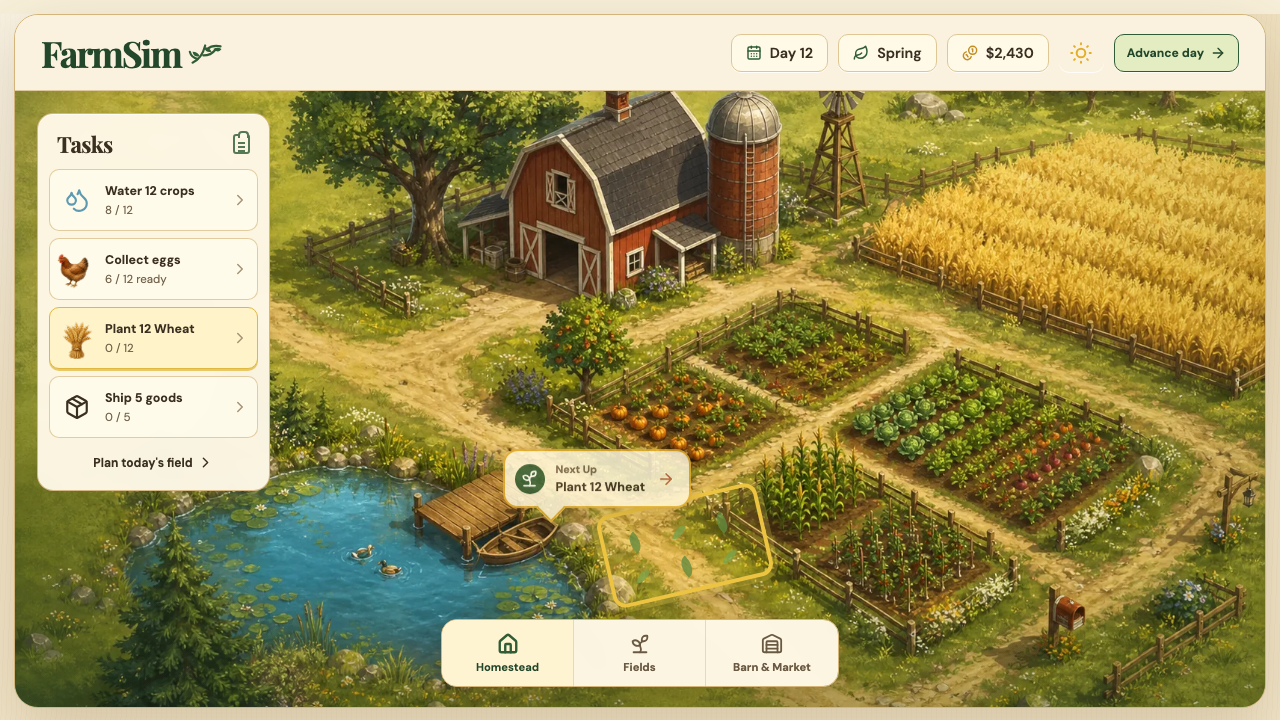
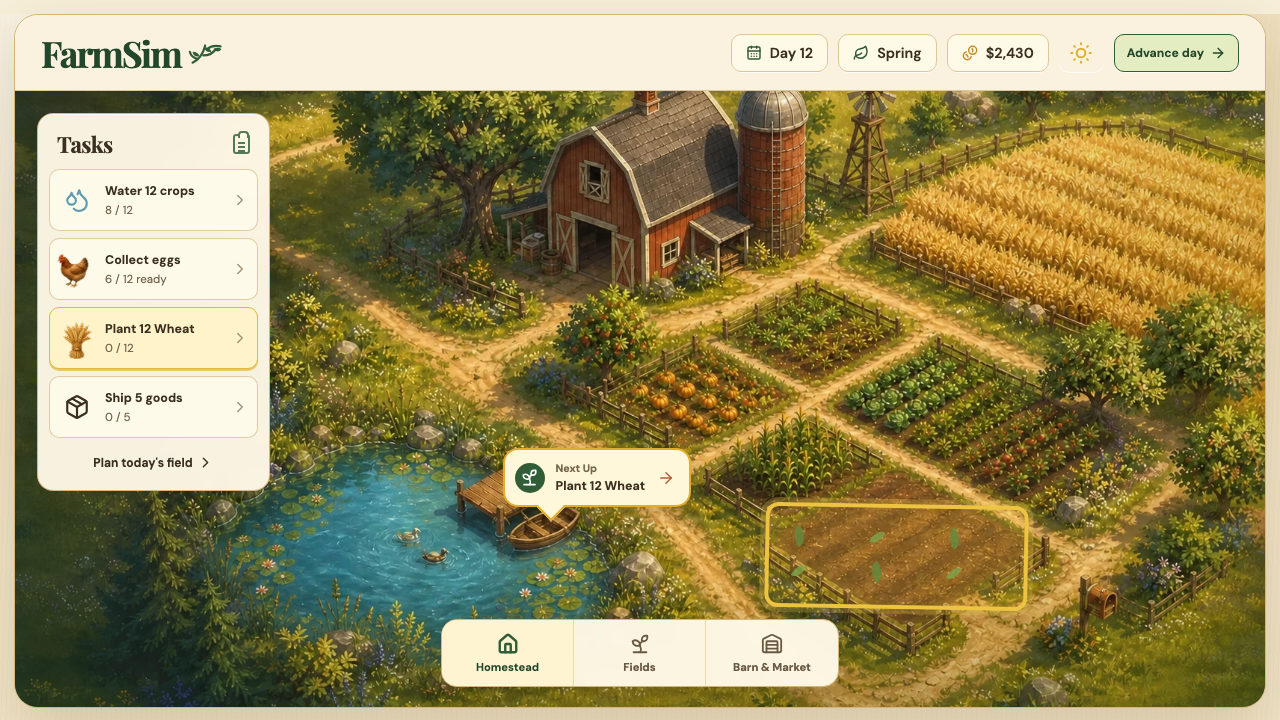
Redesign FarmSim boards and crop assets

diff --git a/web/src/styles.css b/web/src/styles.css
@@ -59,7 +59,7 @@ p { color: var(--ink-soft); font-size: .8rem; line-height: 1.45; }
 /* Overview */
 .sr-only { position: absolute; width: 1px; height: 1px; padding: 0; margin: -1px; overflow: hidden; clip: rect(0, 0, 0, 0); white-space: nowrap; border: 0; }
 .safe-area-pr { padding-right: env(safe-area-inset-right, 0px); }
-.farm-scene { position: relative; min-height: inherit; overflow: hidden; background: #7c9d58 url('/assets/farm-overview.webp') center center / cover no-repeat; isolation: isolate; }
+.farm-scene { position: relative; min-height: inherit; overflow: hidden; background: #6f8f4e url('/assets/farm-overview-v2.webp') center center / cover no-repeat; isolation: isolate; }
 .farm-scene::before { content: ''; position: absolute; z-index: 1; inset: 0; pointer-events: none; opacity: 0; transition: opacity .35s ease; }
 .farm-scene.weather-cloudy::before { opacity: .28; background: linear-gradient(rgba(67, 79, 72, .42), rgba(90, 101, 84, .14)); }
 .farm-scene.weather-rainy::before { opacity: .42; background: repeating-linear-gradient(108deg, transparent 0 17px, rgba(205, 231, 235, .52) 18px 19px, transparent 20px 37px), linear-gradient(rgba(45, 70, 68, .3), rgba(48, 70, 64, .12)); background-size: 180px 180px, auto; animation: rain-drift .8s linear infinite; }
@@ -92,7 +92,7 @@ p { color: var(--ink-soft); font-size: .8rem; line-height: 1.45; }
 .scene-callout small { color: var(--ink-soft); font-size: .67rem; font-weight: 700; }
 .scene-callout strong { font-size: .78rem; }
 .scene-callout > svg { margin-left: auto; color: var(--terracotta); }
-.plot-highlight { position: absolute; z-index: 1; left: 47%; top: 66%; width: 164px; height: 95px; border: 4px solid #edc342; border-radius: 13px; background: rgba(255, 210, 59, .12); box-shadow: 0 0 0 5px rgba(255, 227, 89, .22), 0 10px 18px rgba(70, 49, 14, .23); transform: rotate(-13deg); pointer-events: none; }
+.plot-highlight { position: absolute; z-index: 1; left: 60%; top: 67%; width: 21%; height: 17%; border: 4px solid #edc342; border-radius: 13px; background: rgba(255, 210, 59, .12); box-shadow: 0 0 0 5px rgba(255, 227, 89, .22), 0 10px 18px rgba(70, 49, 14, .23); transform: rotate(1deg); pointer-events: none; }
 .plot-highlight.is-planted { border-color: #9bb868; box-shadow: 0 0 0 5px rgba(187, 213, 121, .18); }
 .plot-sprouts { display: grid; grid-template-columns: repeat(3, 1fr); gap: 16px 26px; padding: 20px 24px; opacity: .8; }
 .plot-sprouts i { width: 12px; height: 19px; border-radius: 90% 0 90% 0; background: #648b3e; transform: rotate(-30deg); }
@@ -115,16 +115,20 @@ p { color: var(--ink-soft); font-size: .8rem; line-height: 1.45; }
 .icon-button, .mini-icon-button { display: inline-grid; place-items: center; border: 1px solid #d5b779; border-radius: 10px; background: rgba(255, 250, 235, .88); cursor: pointer; }
 .icon-button { width: 36px; height: 36px; color: var(--ink); }
 .icon-button:hover, .mini-icon-button:hover { border-color: var(--forest); color: var(--forest); }
-.field-art { position: relative; min-height: clamp(420px, calc(100vh - 280px), 565px); overflow: hidden; border: 1px solid #c5a165; border-radius: 17px; background: #789657 url('/assets/field-planning.webp') center center / cover no-repeat; box-shadow: var(--shadow); }
+.field-art { position: relative; min-height: clamp(420px, calc(100vh - 280px), 565px); overflow: hidden; border: 1px solid #c5a165; border-radius: 17px; background: #789657 url('/assets/field-planning-v2.webp') center center / cover no-repeat; box-shadow: var(--shadow); }
 .field-art-wash { position: absolute; inset: 0; background: linear-gradient(90deg, rgba(42, 65, 31, .17), transparent 34%, rgba(249, 227, 166, .08)); }
-.plot-grid { position: absolute; z-index: 1; left: 17%; top: 15%; display: grid; grid-template-columns: repeat(5, minmax(35px, 1fr)); width: 62%; height: 67%; gap: 3px; transform: rotate(-2deg); }
+.plot-grid { position: absolute; z-index: 1; left: 25%; top: 21%; display: grid; grid-template-columns: repeat(5, minmax(35px, 1fr)); width: 50%; height: 64%; gap: 4px; }
 .plot-tile { position: relative; display: grid; place-items: center; border: 1px solid rgba(107, 75, 38, .75); border-radius: 5px; background: linear-gradient(180deg, #805c34, #624523); color: rgba(215, 235, 164, .95); box-shadow: inset 0 1px 2px rgba(255,255,255,.18), inset 0 -5px 10px rgba(55, 33, 13, .16); cursor: pointer; transition: background .16s ease, transform .16s ease, box-shadow .16s ease; }
 .plot-tile:hover:not(:disabled) { transform: scale(1.04); background: #8c6330; }
 .plot-tile.is-selected { background: linear-gradient(180deg, rgba(138, 178, 77, .98), rgba(102, 143, 54, .98)); border-color: #e6d05c; box-shadow: inset 0 0 0 2px rgba(217, 237, 160, .32), 0 0 0 2px rgba(239, 201, 66, .5); }
 .plot-tile.is-unavailable { background: rgba(84, 78, 60, .72); opacity: .76; cursor: not-allowed; }
-.plot-tile.is-planted { background: #7d9a4f; }
-.plot-tile.is-watered { background: #5d8f65; border-color: #b6d09a; }
-.plot-tile.is-ready { background: #c49536; border-color: #f6d775; color: #fff8d8; box-shadow: inset 0 0 0 2px rgba(255, 237, 160, .3); }
+.plot-tile.is-planted { background: #6b4829; }
+.plot-tile.is-watered { background: #4f6d52; border-color: #b6d09a; }
+.plot-tile.is-ready { background: #8b672f; border-color: #f6d775; color: #fff8d8; box-shadow: inset 0 0 0 2px rgba(255, 237, 160, .3), 0 0 0 1px rgba(235, 183, 55, .4); }
+.crop-stage-icon { position: absolute; inset: 2px; border-radius: 3px; background: #65411f url('/assets/crop-stages-v2.webp') no-repeat; background-size: 400% 300%; filter: saturate(.98) contrast(1.03); }
+.plot-state-mark { position: absolute; z-index: 2; right: 3px; top: 3px; padding: 2px; border-radius: 50%; color: white; filter: drop-shadow(0 1px 1px rgba(35, 27, 14, .5)); }
+.is-watered-mark { background: rgba(47, 112, 135, .9); }
+.is-ready-mark { background: rgba(49, 93, 54, .92); }
 .plot-tile:disabled { cursor: not-allowed; }
 .field-fence { position: absolute; z-index: 2; left: 11%; width: 75%; height: 15px; border-top: 3px solid rgba(92, 65, 33, .82); border-bottom: 3px solid rgba(92, 65, 33, .65); transform: rotate(-2deg); pointer-events: none; }
 .field-fence::after { content: ''; position: absolute; inset: -9px 0; background: repeating-linear-gradient(90deg, transparent 0 22px, rgba(92,65,33,.8) 23px 28px, transparent 29px 51px); opacity: .55; }
@@ -253,15 +257,15 @@ p { color: var(--ink-soft); font-size: .8rem; line-height: 1.45; }
 
 @media (max-width: 820px) {
   .app-frame { width: 100%; min-height: 100vh; margin: 0; border-radius: 0; border-left: 0; border-right: 0; }.topbar { min-height: 68px; padding: 11px 15px; gap: 12px; }.brand-word { font-size: 1.72rem; }.brand-sprig { width: 29px; }.topbar-context { gap: 6px; overflow-x: auto; }.status-chip { min-height: 34px; padding: 0 9px; font-size: .74rem; }.status-chip svg { width: 14px; }.weather-chip { width: 33px; }.weather-chip svg { width: 24px; }
-  .screen-surface { min-height: calc(100vh - 68px); }.farm-scene { min-height: calc(100vh - 68px); background-position: 56% center; }.task-panel { top: 14px; left: 14px; width: min(260px, calc(100% - 28px)); }.scene-callout { left: auto; right: 22px; top: auto; bottom: 152px; }.plot-highlight { left: 50%; top: 56%; }.scene-location { top: 17px; right: 15px; }
+  .screen-surface { min-height: calc(100vh - 68px); }.farm-scene { min-height: calc(100vh - 68px); background-position: 58% center; }.task-panel { top: 14px; left: 14px; width: min(260px, calc(100% - 28px)); }.scene-callout { left: auto; right: 22px; top: auto; bottom: 152px; }.plot-highlight { left: 59%; top: 63%; width: 29%; height: 16%; }.scene-location { top: 17px; right: 15px; }
   .app-nav { position: fixed; z-index: 10; bottom: max(11px, env(safe-area-inset-bottom, 0px)); width: calc(100% - 22px); max-width: 520px; overflow-x: auto; }.nav-item { flex: 1; min-width: 96px; min-height: 61px; padding-left: 8px; padding-right: 8px; }.nav-item span { font-size: .65rem; }
   .planning-screen { display: flex; flex-direction: column; gap: 12px; min-height: calc(100vh - 68px); padding: 17px 14px 92px; }.field-art { min-height: 480px; }.crop-chooser { min-height: auto; }.crop-options { grid-template-columns: repeat(3, minmax(0, 1fr)); }.crop-card { display: flex; flex-direction: column; align-items: center; gap: 3px; text-align: center; }.crop-card-copy { width: 100%; }.crop-stat { font-size: .57rem; }.crop-stat strong { font-size: .59rem; }.crop-fit-badge { display: none; }.plant-button { margin-top: 11px; }.planning-map-link, .planning-active-crop { bottom: 77px; }
   .barn-screen { min-height: calc(100vh - 68px); padding: 17px 14px 92px; }.barn-content { display: flex; flex-direction: column; }.barn-content.focus-barn .market-column, .barn-content.focus-market .barn-column { display: none; }.market-column { display: grid; grid-template-columns: 1fr 1fr; }.ship-button { grid-column: 1 / -1; }.barn-tabs { margin-bottom: 12px; }
 }
 
 @media (max-width: 560px) {
-  .status-chip span { display: none; }.status-chip { width: 34px; padding: 0; }.money-chip { width: 44px; }.money-chip span { display: inline; font-size: .65rem; }.weather-chip { display: none; }.advance-day-button { width: 34px; min-width: 34px; padding: 0; }.advance-day-button span { display: none; }.task-panel { width: calc(100% - 28px); }.task-row { min-height: 57px; }.scene-callout { left: 18px; right: auto; bottom: 145px; }.plot-highlight { left: 45%; top: 61%; transform: rotate(-13deg) scale(.8); transform-origin: center; }.scene-location { display: none; }
+  .status-chip span { display: none; }.status-chip { width: 34px; padding: 0; }.money-chip { width: 44px; }.money-chip span { display: inline; font-size: .65rem; }.weather-chip { display: none; }.advance-day-button { width: 34px; min-width: 34px; padding: 0; }.advance-day-button span { display: none; }.task-panel { width: calc(100% - 28px); }.task-row { min-height: 57px; }.scene-callout { left: 18px; right: auto; bottom: 145px; }.plot-highlight { left: 57%; top: 62%; width: 34%; height: 14%; transform: rotate(1deg) scale(.8); transform-origin: center; }.scene-location { display: none; }
   .nav-item { min-width: 88px; }.nav-item svg { width: 19px; height: 19px; }.nav-item span { font-size: .59rem; }
-  .planning-heading-row h1 { font-size: 1.2rem; }.field-art { min-height: 390px; }.plot-grid { left: 11%; width: 76%; top: 20%; height: 63%; }.crop-options { grid-template-columns: 1fr; }.crop-card { display: grid; grid-template-columns: 65px 1fr; gap: 7px; text-align: left; }.crop-card .asset-icon { justify-self: center; }.crop-fit-badge { display: inline-flex; }.planning-map-link, .planning-active-crop { display: none; }
+  .planning-heading-row h1 { font-size: 1.2rem; }.field-art { min-height: 390px; }.plot-grid { left: 18%; width: 64%; top: 20%; height: 64%; }.crop-options { grid-template-columns: 1fr; }.crop-card { display: grid; grid-template-columns: 65px 1fr; gap: 7px; text-align: left; }.crop-card .asset-icon { justify-self: center; }.crop-fit-badge { display: inline-flex; }.planning-map-link, .planning-active-crop { display: none; }
   .inventory-grid { grid-template-columns: repeat(2, 1fr); }.market-column { grid-template-columns: 1fr; }.animal-row { grid-template-columns: 44px 1fr auto; }.animal-row .progress-line { grid-column: 2 / -1; }.collect-button { grid-column: 3; grid-row: 1; }.recipe-actions { grid-template-columns: 1fr; }.recipe-button { display: grid; grid-template-columns: 38px 1fr; min-height: 44px; }.queue-row { grid-template-columns: 42px 56px minmax(45px, 1fr) 27px; }.queue-time { grid-column: 3; grid-row: 2; }.queue-row .mini-icon-button { grid-column: 4; grid-row: 1 / span 2; }.barn-tabs button { font-size: .96rem; }
 }

diff --git a/web/src/components/FieldPlanning.tsx b/web/src/components/FieldPlanning.tsx
@@ -4,6 +4,7 @@ import { cropOptions, unavailablePlots } from '../data'
 import { growthDays, plantedPlotIds, readyPlotIds, selectedPlotIds, wateredPlotIds } from '../selectors'
 import { AssetIcon } from './AssetIcon'
 import { AppNav } from './AppNav'
+import { CropStageIcon } from './CropStageIcon'
 
 type FieldPlanningProps = {
   state: FarmState
@@ -52,6 +53,7 @@ export function FieldPlanning({ state, selectedCrop, onSelectCrop, onTogglePlot,
               const isPlanted = plantedSet.has(index)
               const isWatered = wateredSet.has(index)
               const isReady = readySet.has(index)
+              const cropDefinition = cropOptions.find((crop) => crop.key === plot?.crop)
               const plotStatus = isUnavailable ? 'unavailable' : isReady ? 'ready to harvest' : isWatered ? 'watered' : isPlanted ? 'planted' : isSelected ? 'selected' : 'available'
               return (
                 <button
@@ -63,7 +65,13 @@ export function FieldPlanning({ state, selectedCrop, onSelectCrop, onTogglePlot,
                   onClick={() => onTogglePlot(index)}
                   key={index}
                 >
-                  {isReady ? <Check size={17} strokeWidth={2.6} aria-hidden="true" /> : (isSelected || isPlanted) && <Sprout size={17} strokeWidth={2.4} aria-hidden="true" />}
+                  {plot?.crop && cropDefinition ? (
+                    <>
+                      <CropStageIcon crop={plot.crop} growthDays={plot.growthDays} totalDays={cropDefinition.growthDays} ready={isReady} />
+                      {isWatered && !isReady && <Droplets className="plot-state-mark is-watered-mark" size={13} strokeWidth={2.6} aria-hidden="true" />}
+                      {isReady && <Check className="plot-state-mark is-ready-mark" size={14} strokeWidth={3} aria-hidden="true" />}
+                    </>
+                  ) : isSelected ? <Sprout size={17} strokeWidth={2.4} aria-hidden="true" /> : null}
                 </button>
               )
             })}

diff --git a/web/src/components/CropStageIcon.tsx b/web/src/components/CropStageIcon.tsx
@@ -1,0 +1,24 @@
+import type { CSSProperties } from 'react'
+import type { CropKey } from '../data'
+
+type CropStageIconProps = {
+  crop: CropKey
+  growthDays: number
+  totalDays: number
+  ready: boolean
+}
+
+const cropRows: Record<CropKey, number> = {
+  wheat: 0,
+  tomato: 1,
+  corn: 2,
+}
+
+export function CropStageIcon({ crop, growthDays, totalDays, ready }: CropStageIconProps) {
+  const stage = ready ? 3 : growthDays === 0 ? 0 : Math.min(2, Math.ceil((growthDays / totalDays) * 2))
+  const style: CSSProperties = {
+    backgroundPosition: `${stage * 33.333333}% ${cropRows[crop] * 50}%`,
+  }
+
+  return <span className="crop-stage-icon" style={style} aria-hidden="true" />
+}

diff --git a/web/public/sw.js b/web/public/sw.js
@@ -7,7 +7,7 @@
  * Strategy: navigation requests try network first, fall back to cached shell; other GETs use
  * cache-if-available then refresh cache when network succeeds.
  */
-const CACHE_NAME = 'farmsim-sw-v0.2.0';
+const CACHE_NAME = 'farmsim-sw-v0.2.1';
 
 const ASSETS = [
   './',
@@ -16,8 +16,9 @@ const ASSETS = [
   './icons/favicon.svg',
   './icons/icon-192.png',
   './icons/icon-512.png',
-  './assets/farm-overview.webp',
-  './assets/field-planning.webp',
+  './assets/farm-overview-v2.webp',
+  './assets/field-planning-v2.webp',
+  './assets/crop-stages-v2.webp',
   './assets/farm-assets-sheet-alpha.webp',
   './screenshots/narrow.png',
   './screenshots/wide.png',

diff --git a/progress.md b/progress.md
@@ -52,3 +52,11 @@
 - [x] Verified web build/lint, iOS GameCore tests, and iOS simulator build.
 - [ ] Image generation was unavailable because `OPENAI_API_KEY` was not set; existing local artwork was reused and re-integrated.
 - [ ] `npm audit` reports the pre-existing `vite -> postcss -> nanoid@3.3.16` advisory (GHSA-2v37-7h3g-55p8); no affected custom nanoid generator is used by FarmSim.
+
+## 2026-08-23 Imagegen Board + Asset Pass
+- [x] Generated and integrated a new premium storybook homestead overview with UI-safe composition and a state-neutral workable plot.
+- [x] Generated and integrated a field-planning background built around the real 30-plot interaction surface.
+- [x] Generated a 12-state wheat/tomato/corn growth atlas and connected plot art directly to simulation growth state.
+- [x] Rejected two item-sheet variants that failed genuine-alpha validation; retained the existing production inventory sheet.
+- [x] Refreshed exact-size PWA screenshots and advanced the offline cache to Web 0.2.1.
+- [x] Verified 41 suites / 138 tests, type-check, lint, production build, desktop/mobile composition, crop progression, and zero browser console errors.

diff --git a/CHANGELOG.md b/CHANGELOG.md
@@ -1,5 +1,15 @@
 # Changelog
 
+## [Web 0.2.1] - 2026-08-23
+
+### Added
+- New Imagegen-built homestead overview, field-planning board, and 12-state crop growth atlas.
+- Crop-specific plot visuals for wheat, tomato, and corn across seedling, young, mature, and harvest-ready stages.
+
+### Changed
+- Repositioned the overview plot highlight against the redesigned farm composition and aligned the 30-plot interaction grid to the new soil board.
+- Refreshed PWA screenshots and advanced the offline asset cache for the new art release.
+
 ## [Web 0.2.0] - 2026-08-23
 
 ### Added
